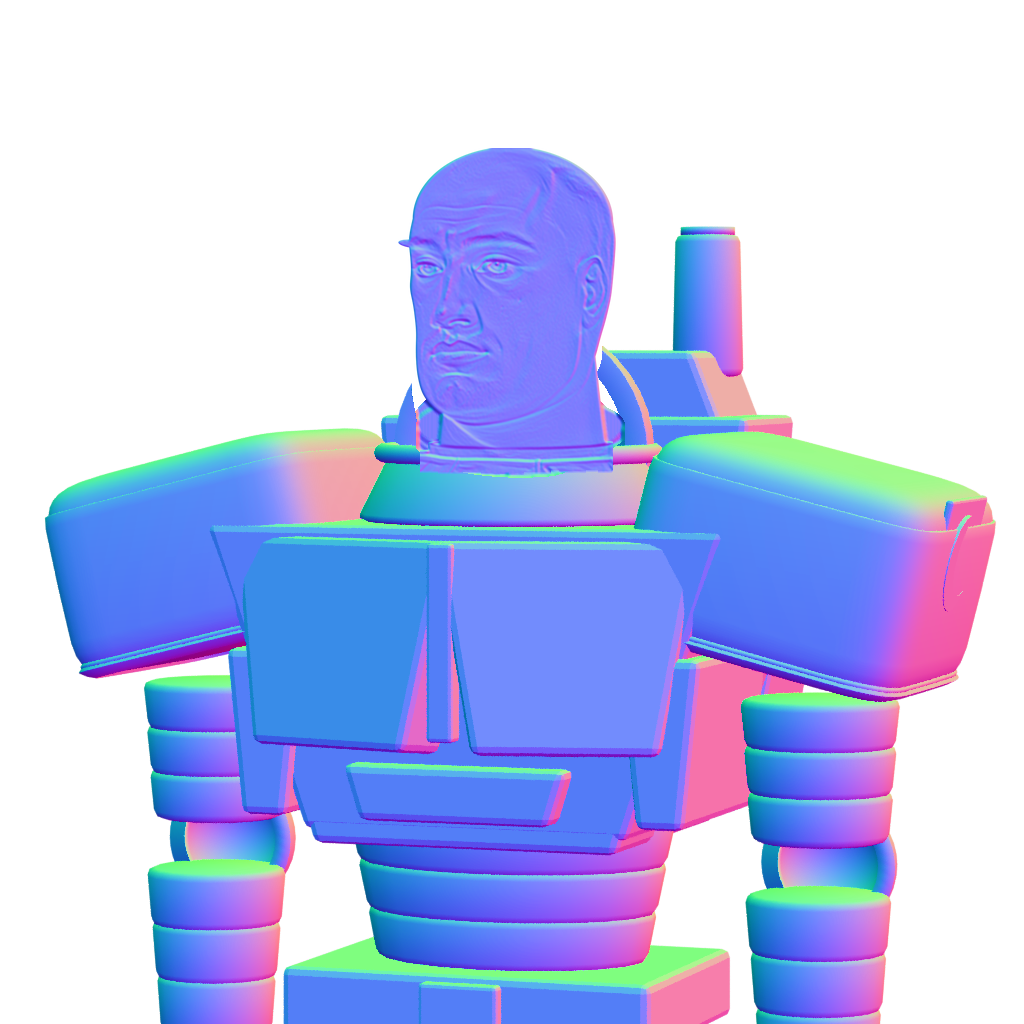
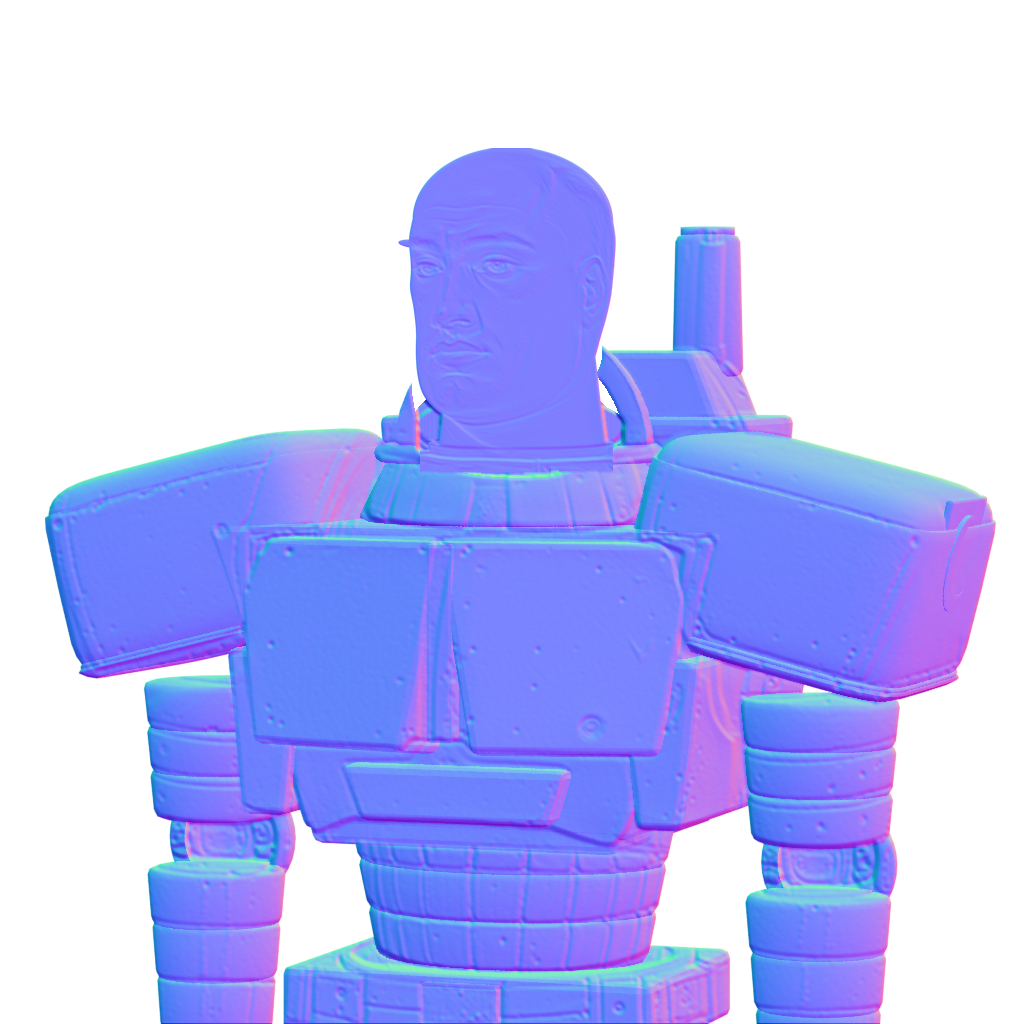
Bustes : normales de CA1 refaites, cadrage du gabarit 40, contours propres, feu par en dessous
- Normales recopiées (adoucies à 40 % par CA1) et dosées en jeu : 0,3 sur le visage, 0,5 sur
  le corps (shader du buste, NORMAL_MAP_DEPTH).
- Cadrage : la tête prend la largeur et la place de celle du gabarit 40 du fond (calcul de CA1,
  tools/gros_plans/cadrage.py -> data/gros_plans_cadrage.json).
- Liserés sombres : le SubViewport rend des couleurs prémultipliées ; affichage en
  blend_premul_alpha.
- Clé venue d'en dessous (feu au sol) : PointLight2D sous le cadre qui s'éteint en montant.
- Humeurs du Narrative reportées dans ch01, ch02, ch03 et ch05 (12 lignes : assurance, ecoute).

Claude-Session: https://claude.ai/code/session_011WbKxDdi73Zi2hq6UYoBLy

diff --git a/tools/gros_plans/cadrage.py b/tools/gros_plans/cadrage.py
@@ -1,0 +1,61 @@
+"""Cadrage des bustes de gros plan (calcul de CA1, planche_finale.py) -> data/gros_plans_cadrage.json.
+
+La tête du buste prend la largeur et la place de la tête du gabarit 40 de chaque fond (CA2) :
+  fond  : haut de la silhouette gy0, largeur max de la tête gw sur 300 px, centre gcx,
+          ligne des yeux gey = gy0 + 0,45 x 260 ;
+  buste : ligne des yeux tete_y_px du kit (<perso>_camera_<g|d>.json), largeur de peau bw et
+          centre bcx sur cette ligne (buste_<côté>.png de travail de CA1).
+Le jeu pose le buste à l'échelle gw / bw, (bcx, tete_y_px) sur (gcx, gey).
+Usage : python3 tools/gros_plans/cadrage.py /mnt/project-files/etude-heresie [dépôt]
+"""
+import glob, json, os, sys
+import numpy as np
+from PIL import Image
+
+E = sys.argv[1].rstrip("/") + "/"
+DEPOT = sys.argv[2] if len(sys.argv) > 2 else "."
+KIT = E + "chaine-images/kit-gros-plans/trois_quarts/"
+TP2 = E + "chaine-images/retouche/assets/personnages/"
+
+
+def ld(p):
+    return np.asarray(Image.open(p).convert("RGBA")).astype(np.float32) / 255
+
+
+def peau(a):
+    r, g, b = a[..., 0], a[..., 1], a[..., 2]
+    return (r > g) & (g > b) & (r - b > 0.10) & (a[..., 3] > 0.5)
+
+
+sortie = {"note": "généré par tools/gros_plans/cadrage.py (calcul de CA1) : ne pas éditer", "fonds": {}, "bustes": {}}
+for dossier in sorted(glob.glob(os.path.join(DEPOT, "assets/decors/*_gros_plan"))):
+    fid = os.path.basename(dossier)
+    for ep in sorted(glob.glob(E + "episode-*/")):
+        cal = ep + fid + "/calques/"
+        if not os.path.isdir(cal):
+            continue
+        for cote in ("gauche", "droite"):
+            p = cal + f"gabarit_40_{cote}.png"
+            if not os.path.exists(p):
+                continue
+            g = ld(p)[..., 3] > 0.1
+            rows = np.nonzero(g.any(1))[0]
+            gy0 = int(rows.min())
+            ghr = g[gy0:gy0 + 300]
+            gw = int(ghr.sum(1).max())
+            gcx = float(np.nonzero(ghr[np.argmax(ghr.sum(1))])[0].mean())
+            sortie["fonds"].setdefault(fid, {})[cote] = {"x": round(gcx, 1), "y": round(gy0 + 0.45 * 260, 1), "largeur": gw}
+        break
+for dossier in sorted(glob.glob(os.path.join(DEPOT, "assets/personnages/*"))):
+    perso = os.path.basename(dossier)
+    for cote in ("gauche", "droite"):
+        cam = KIT + f"{perso}_camera_{'g' if cote == 'gauche' else 'd'}.json"
+        bo = TP2 + f"{perso}/buste_{cote}.png"
+        if not (os.path.exists(cam) and os.path.exists(bo) and glob.glob(os.path.join(dossier, f"buste_{cote}_*.png"))):
+            continue
+        bey = json.load(open(cam))["tete_y_px"]
+        sk = np.nonzero(peau(ld(bo))[bey])[0]
+        sortie["bustes"].setdefault(perso.upper(), {})[cote] = {
+            "x": round((sk.min() + sk.max()) / 2, 1), "y": bey, "largeur": int(sk.max() - sk.min())}
+json.dump(sortie, open(os.path.join(DEPOT, "data/gros_plans_cadrage.json"), "w"), ensure_ascii=False, indent=1)
+print(len(sortie["fonds"]), "fonds,", len(sortie["bustes"]), "bustes")
